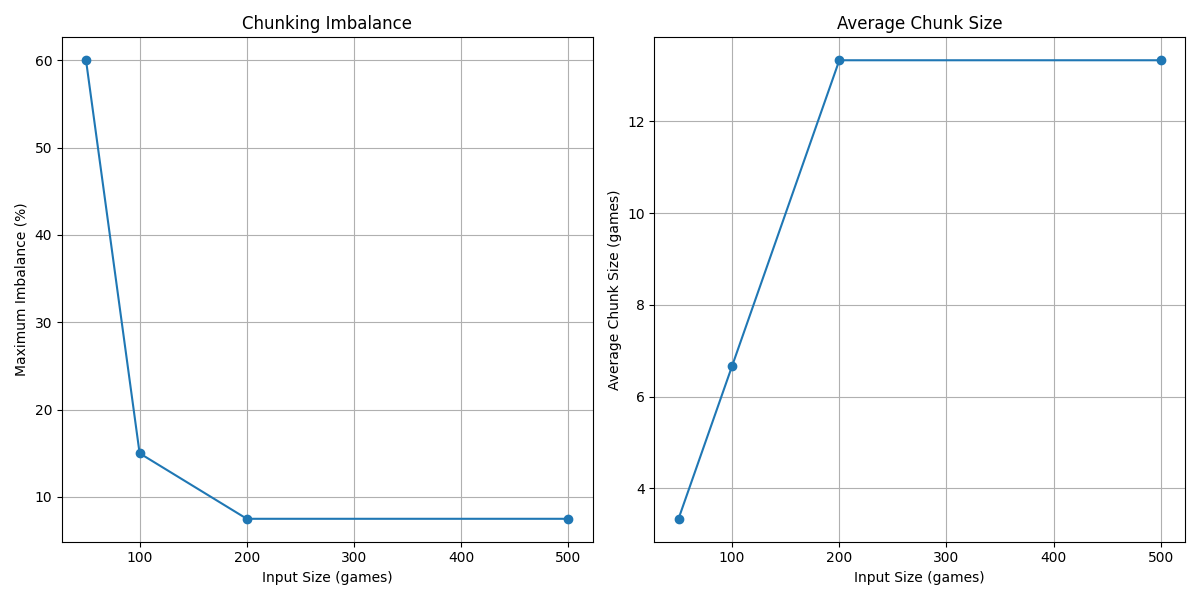
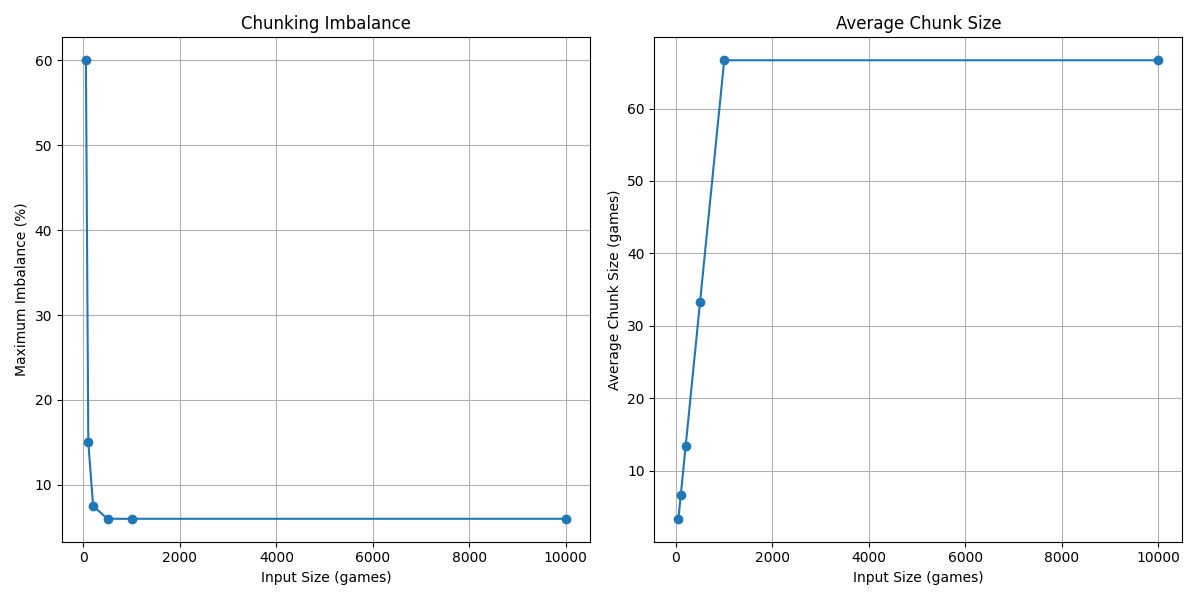
something

diff --git a/optimization_testing/detailed_profiling.py b/optimization_testing/detailed_profiling.py
@@ -197,7 +197,7 @@ def profile_legal_moves_cache(chess_data, num_games=10):
     plt.savefig('cache_performance.png')
     print("\nCache performance plot saved to cache_performance.png")
     
-def profile_chunking_strategy(chess_data, chunk_sizes=[50, 100, 200, 500]):
+def profile_chunking_strategy(chess_data, chunk_sizes=[50, 100, 200, 500, 1000, 10_000]):
     """Profile the effectiveness of the chunking strategy."""
     from training.game_simulation import adaptive_chunker, process_games_in_parallel
     
@@ -288,7 +288,7 @@ if __name__ == "__main__":
     print(f"Loaded {len(chess_data)} games, average {chess_data['PlyCount'].mean():.2f} moves per game")
     
     # Take a smaller sample for profiling
-    sample_size = 200
+    sample_size = 1000
     if len(chess_data) > sample_size:
         chess_data = chess_data.sample(sample_size, random_state=42)
         print(f"Using sample of {sample_size} games")

diff --git a/environment/Environ.py b/environment/Environ.py
@@ -133,15 +133,11 @@ class Environ:
                 self._legal_moves_cache = legal_moves
                 self._last_board_fen = current_fen
                 
-                # Add diagnostic print for debugging
-                print(f"CACHE HIT: {current_fen[:20]}... ({len(legal_moves)} moves)")
                 return legal_moves
         
         # Cache miss - calculate legal moves
         with self._global_cache_lock:
             self._global_cache_misses += 1
-            # Add diagnostic print for debugging
-            print(f"CACHE MISS: {current_fen[:20]}...")
         
         legal_moves = [self.board.san(move) for move in self.board.legal_moves]
         

diff --git a/optimization_testing/benchmark_script.py b/optimization_testing/benchmark_script.py
@@ -131,7 +131,7 @@ def run_benchmark(df, sample_sizes=None, runs_per_sample=3):
     """Run benchmarks on various sample sizes for both implementations."""
     if sample_sizes is None:
         # Default sample sizes
-        sample_sizes = [100, 500, 1000]
+        sample_sizes = [100, 500, 1000, 10_000, 50_000]
     
     results = {
         'sample_size': [],
